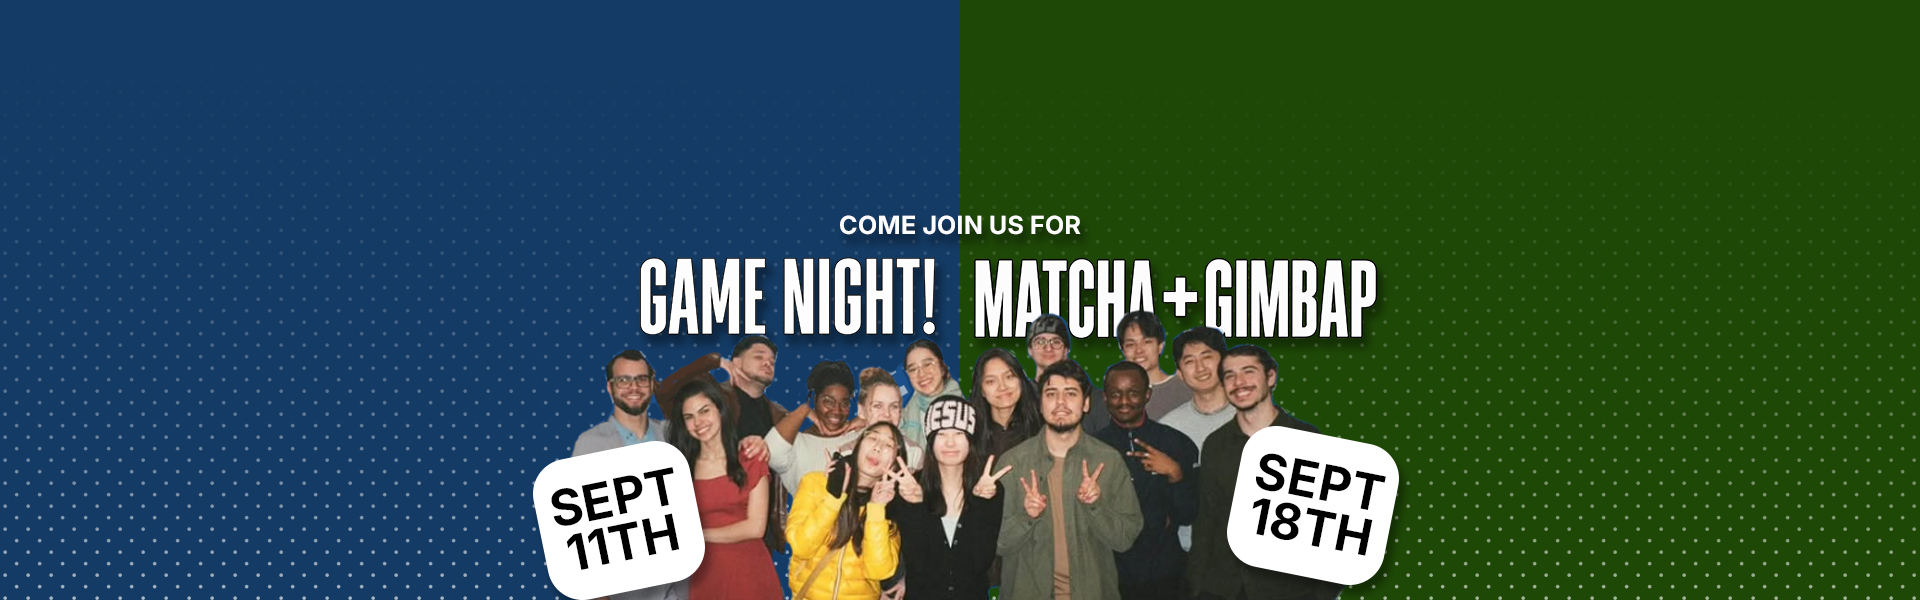
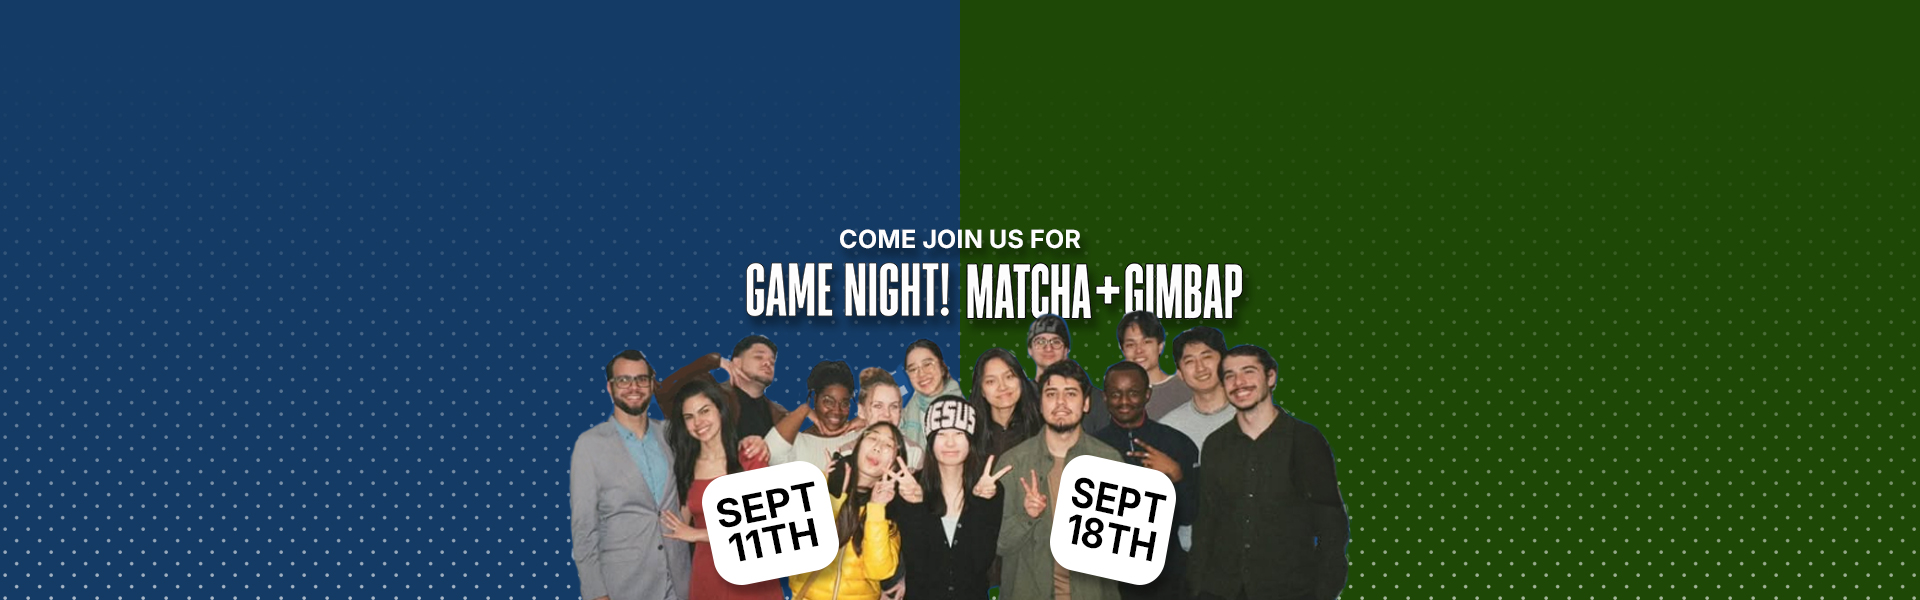
Updated Bible Study

Changed region(s): [[0.3125, 0.36, 0.7188, 0.57], [0.5312, 0.69, 0.75, 0.99], [0.25, 0.72, 0.4375, 1.0]]

diff --git a/resources/views/pages/about.blade.php b/resources/views/pages/about.blade.php
@@ -1,37 +1,47 @@
+@use('App\Enums\UserPrivilege')
+
 <x-layout class="bg-slate-900" textColor="text-white">
 
     <x-slot name="title">{{__('about/index.title')}}</x-slot>
 
     <h1 class='text-right text-4xl font-bold pt-18 pb-8'>{{__('about/index.title')}}</h1>
 
-    <x-blurb title="{{__('about/index.history.title')}}" :variant="['slate-900', '#1e3a8a']"></x-blurb>
+    @auth
 
-    <x-text-image :toggleLeft="true"
-    img="./images/history/lee-barry.jpg"
-    alt="{{__('about/index.alt_1')}}"
-    imageSize="66">{{__('about/index.history.content_1')}}</x-text-image>
+        @if (auth()->user()->privileges !== UserPrivilege::GUEST)
 
-    <x-text-image :toggleLeft="false"
-    img="./images/history/bible-reading-class-ubf-korea.jpg"
-    alt="{{__('about/index.alt_2')}}"
-    imageSize="66">{{__('about/index.history.content_2')}}</x-text-image>
+            <x-blurb title="{{__('about/index.history.title')}}" :variant="['slate-900', '#1e3a8a']"></x-blurb>
 
-    <x-text-image :toggleLeft="true"
-    img="./images/history/first-cis-conference.jpg"
-    alt="{{__('about/index.alt_3')}}"
-    imageSize="66">{{__('about/index.history.content_3')}}</x-text-image>
+            <x-text-image :toggleLeft="true"
+            img="./images/history/lee-barry.jpg"
+            alt="{{__('about/index.alt_1')}}"
+            imageSize="90">{{__('about/index.history.content_1')}}</x-text-image>
 
-    <x-text-image :toggleLeft="false"
-    img="./images/history/cdn-campus-mission-1982.jpeg"
-    alt="{{__('about/index.alt_4')}}"
-    imageSize="66">{{__('about/index.history.content_4')}}</x-text-image>
+            <x-text-image :toggleLeft="false"
+            img="./images/history/bible-reading-class-ubf-korea.jpg"
+            alt="{{__('about/index.alt_2')}}"
+            imageSize="90">{{__('about/index.history.content_2')}}</x-text-image>
 
-    <x-text-image :toggleLeft="true"
-    img="./images/history/20240825-presentation.jpg"
-    alt="{{__('about/index.alt_5')}}"
-    imageSize="66">{{__('about/index.history.content_5')}}</x-text-image>
+            <x-text-image :toggleLeft="true"
+            img="./images/history/first-cis-conference.jpg"
+            alt="{{__('about/index.alt_3')}}"
+            imageSize="90">{{__('about/index.history.content_3')}}</x-text-image>
 
-    <br/>
+            <x-text-image :toggleLeft="false"
+            img="./images/history/cdn-campus-mission-1982.jpeg"
+            alt="{{__('about/index.alt_4')}}"
+            imageSize="90">{{__('about/index.history.content_4')}}</x-text-image>
+
+            <x-text-image :toggleLeft="true"
+            img="./images/history/20240825-presentation.jpg"
+            alt="{{__('about/index.alt_5')}}"
+            imageSize="90">{{__('about/index.history.content_5')}}</x-text-image>
+
+            <br/>
+
+        @endif
+
+    @endauth
 
     <x-blurb title="{{__('about/index.mission_vision.title')}}" :variant="['#1e3a8a', 'slate-900']">
         <p>{{__('about/index.mission_vision.mv_blurb_1')}}</p>

diff --git a/lang/fr_CA/home/study.php b/lang/fr_CA/home/study.php
@@ -4,13 +4,14 @@ return [
 
     "heading" => "Série d’étude biblique",
     "book" => "L’évangile de Jean",
-    "title" => "Mes brebis écoutent ma voix",
-    "dateStamp" => "Le 6 septembre, 2026",
-    "biblePassage" => "Jean 10.22-42",
-    "bibleLink" => "https://www.biblegateway.com/passage/?search=Jean%2010.22-42&version=LSG",
+    "title" => "Afin qu’à travers elle la gloire du Fils de Dieu soit révélée ",
+    "dateStamp" => "Le 13 septembre, 2026",
+    "biblePassage" => "Jean 11.1-16",
+    "bibleLink" => "https://www.biblegateway.com/passage/?search=Jean%2011.1-16&version=LSG",
+    "images" => ["desktop" => "images/john/jn_11.01-16-desktop.jpg", "mobile" => "images/john/jn_11.01-16-mobile.jpg"],
     "questionSheet" => "Questionnaire",
     "dir" => "nt/john_2026",
-    "pdf" => "jn_10.22-42.q.fr.pdf",
-    "docx" => "jn_10.22-42.q.fr.docx",
+    "pdf" => "jn_11.01-16.q.fr.pdf",
+    "docx" => "jn_11.01-16.q.fr.docx",
 
 ];

diff --git a/lang/en_CA/home/study.php b/lang/en_CA/home/study.php
@@ -4,13 +4,14 @@ return [
 
     "heading" => "Bible Study Series",
     "book" => "John’s Gospel",
-    "title" => "My Sheep Listen To My Voice",
-    "dateStamp" => "Sept 6th, 2026",
-    "biblePassage" => "John 11.22-42",
-    "bibleLink" => "https://www.biblegateway.com/passage/?search=John%2010%3A22-42&version=NIV",
+    "title" => "God’s Son Will Be Glorified Through It",
+    "dateStamp" => "Sept 13th, 2026",
+    "biblePassage" => "John 11:1-16",
+    "bibleLink" => "https://www.biblegateway.com/passage/?search=John%2011%3A1-16&version=NIV",
+    "images" => ["desktop" => "", "mobile" => ""],
     "questionSheet" => "Questionnaire",
     "dir" => "nt/john_2026",
-    "pdf" => "jn_10.22-42.q.pdf",
-    "docx" => "jn_10.22-42.q.docx",
+    "pdf" => "jn_11.01-16.q.pdf",
+    "docx" => "jn_11.01-16.q.docx",
 
 ];

diff --git a/resources/views/layout.blade.php b/resources/views/layout.blade.php
@@ -72,7 +72,7 @@
                 {{__('home/events.content')}}
             </x-events>
 
-            <x-study :image="asset('./images/john/jn_10.22-42-mobile.jpg')"
+            <x-study :image="asset('./images/john/jn_11.01-16-mobile.jpg')"
                 :heading="__('home/study.heading')"
                 :book="__('home/study.book')"
                 :dateStamp="__('home/study.dateStamp')"
@@ -101,7 +101,7 @@
             </x-events>
 
             <x-study
-                :image="asset('./images/john/jn_10.22-42-desktop.jpg')"
+                :image="asset('./images/john/jn_11.01-16-desktop.jpg')"
                 :heading="__('home/study.heading')"
                 :book="__('home/study.book')"
                 dateStamp="{{__('home/study.dateStamp')}}"

diff --git a/app/Models/User.php b/app/Models/User.php
@@ -40,4 +40,9 @@ class User extends Authenticatable
             'privileges' => UserPrivilege::class, // Cast to Enum
         ];
     }
+
+    public function isAdmin(): bool {
+        return $this->privileges === 'admin';
+    }
+
 }
